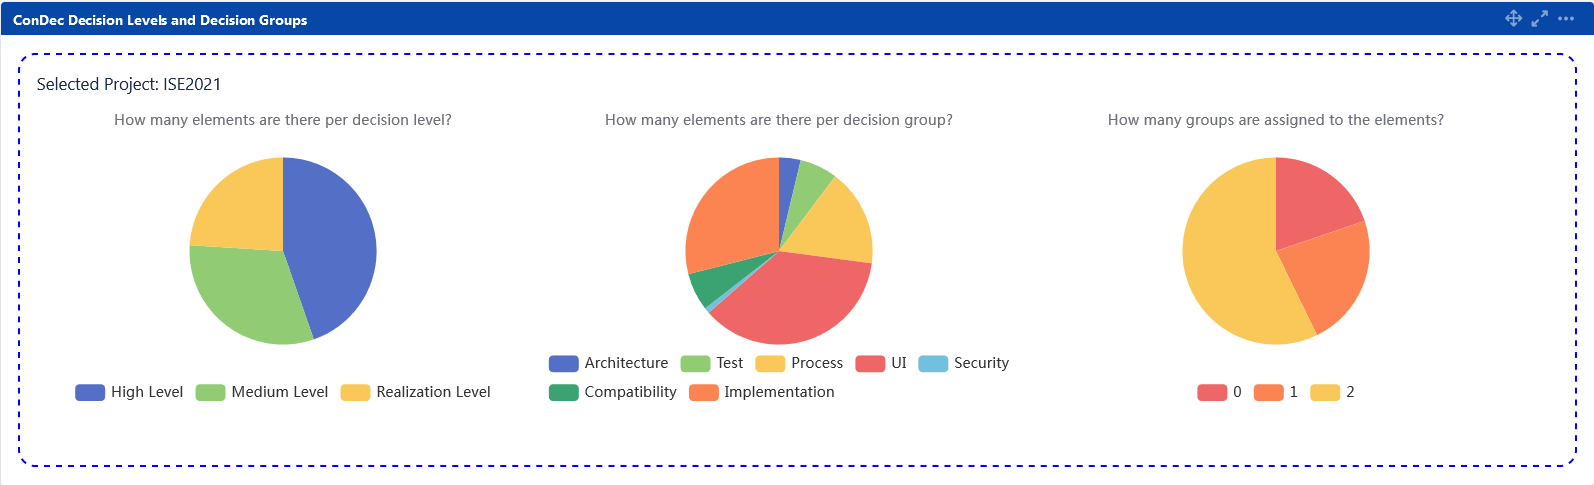
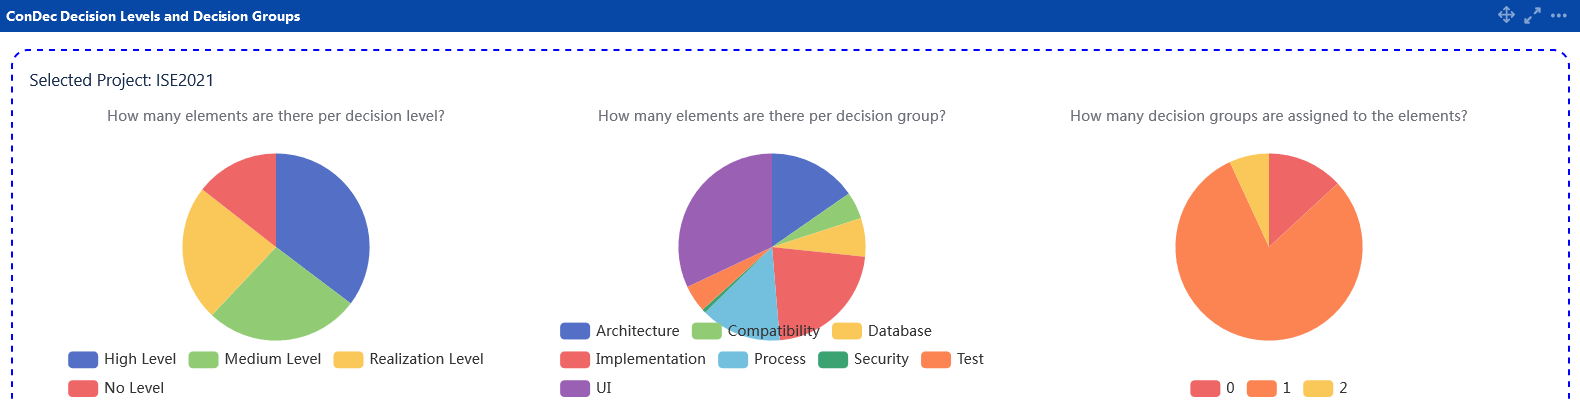
Update screenshot of dashboard

diff --git a/src/test/java/de/uhd/ifi/se/decision/management/jira/rest/decisiongrouping/TestGetDecisionGroupCoverage.java b/src/test/java/de/uhd/ifi/se/decision/management/jira/rest/decisiongrouping/TestGetDecisionGroupCoverage.java
@@ -16,13 +16,13 @@ import net.java.ao.test.jdbc.NonTransactional;
 
 public class TestGetDecisionGroupCoverage extends TestSetUp {
 
-	protected DecisionGroupingRest decisionGroupingRest;
+	private DecisionGroupingRest decisionGroupingRest;
 
 	@Before
 	public void setUp() {
 		init();
 		decisionGroupingRest = new DecisionGroupingRest();
-		DecisionGroupPersistenceManager.insertGroup("TestGroup1", KnowledgeElements.getDecision());
+		DecisionGroupPersistenceManager.insertGroup("Process", KnowledgeElements.getDecision());
 	}
 
 	@Test

diff --git a/src/test/java/de/uhd/ifi/se/decision/management/jira/rest/decisiongrouping/TestGetDecisionGroupsMap.java b/src/test/java/de/uhd/ifi/se/decision/management/jira/rest/decisiongrouping/TestGetDecisionGroupsMap.java
@@ -16,13 +16,13 @@ import net.java.ao.test.jdbc.NonTransactional;
 
 public class TestGetDecisionGroupsMap extends TestSetUp {
 
-	protected DecisionGroupingRest decisionGroupingRest;
+	private DecisionGroupingRest decisionGroupingRest;
 
 	@Before
 	public void setUp() {
 		init();
 		decisionGroupingRest = new DecisionGroupingRest();
-		DecisionGroupPersistenceManager.insertGroup("TestGroup1", KnowledgeElements.getDecision());
+		DecisionGroupPersistenceManager.insertGroup("UI", KnowledgeElements.getDecision());
 	}
 
 	@Test
